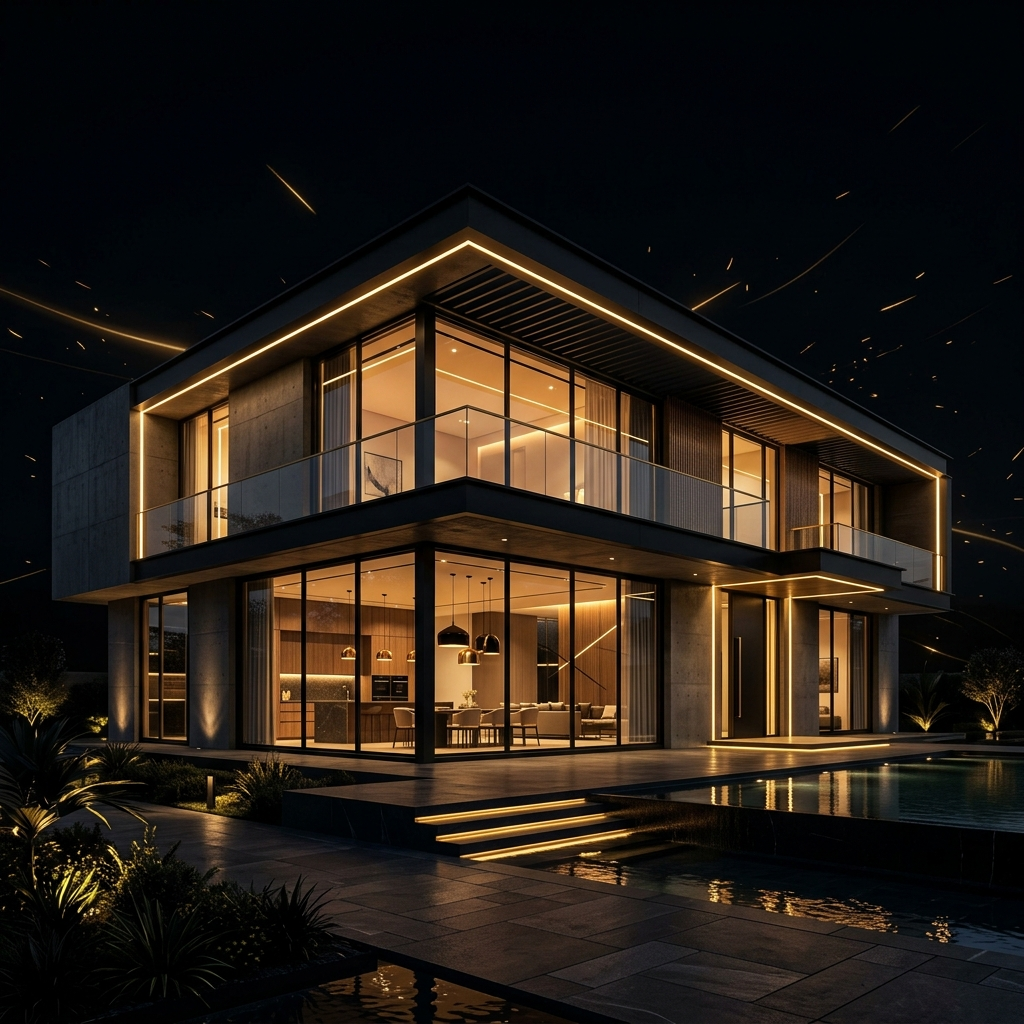
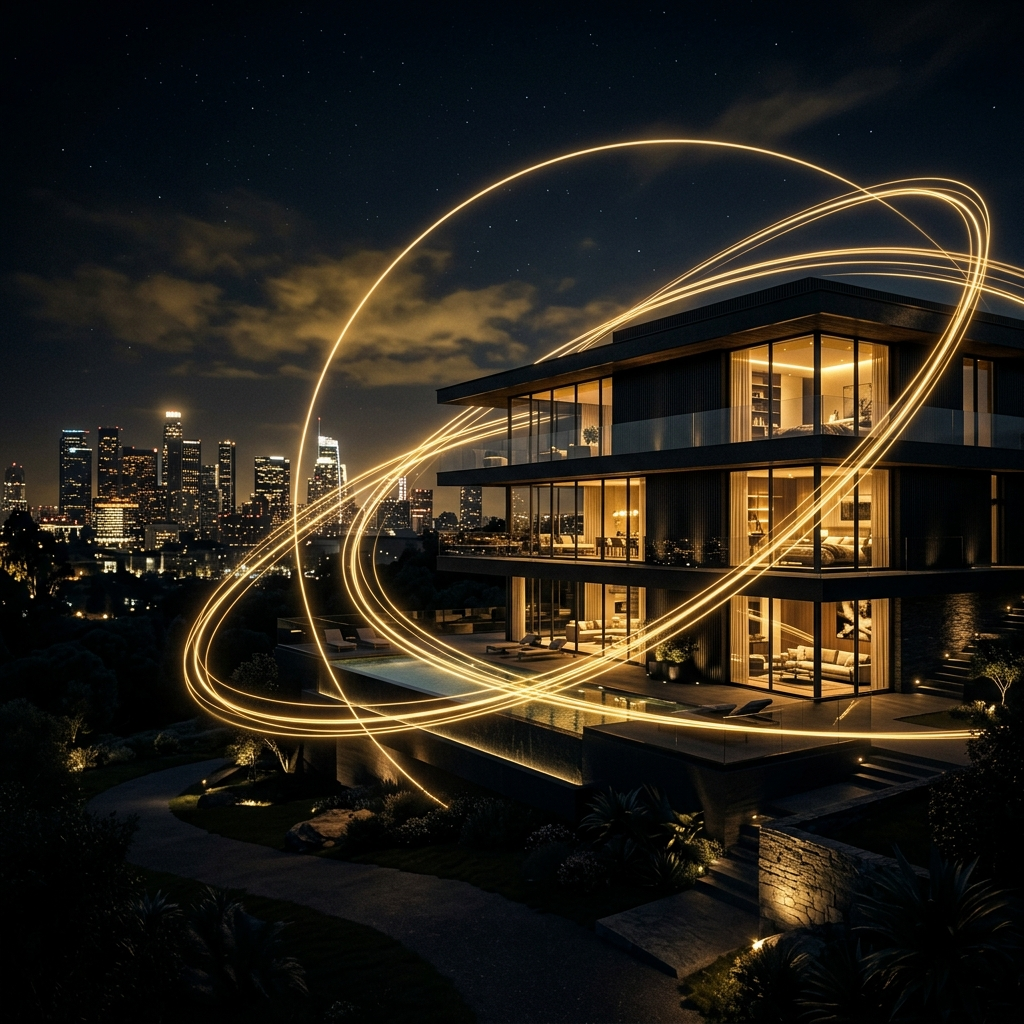
style: finalize luxury villa illustration asset and remove duplicate overlays to match screenshot 100%

diff --git a/src/app/(public)/page.tsx b/src/app/(public)/page.tsx
@@ -327,22 +327,6 @@ export default function Homepage() {
                 className={styles.visualImg} 
               />
 
-              {/* Floating Analytics cards (mockup from collage) */}
-              <div className={`${styles.overlayCard} ${styles.overlayCardLeft}`}>
-                <span className={styles.overlayCardIcon}>✦</span>
-                <div>
-                  <div className={styles.overlayCardLabel}>Premium Yield</div>
-                  <div className={styles.overlayCardValue}>AAA Rating</div>
-                </div>
-              </div>
-
-              <div className={`${styles.overlayCard} ${styles.overlayCardRight}`}>
-                <span className={styles.overlayCardIcon} style={{ color: '#4CAF50' }}>✓</span>
-                <div>
-                  <div className={styles.overlayCardLabel}>Verification</div>
-                  <div className={styles.overlayCardValue}>100% Secure</div>
-                </div>
-              </div>
             </div>
           </div>
         </div>